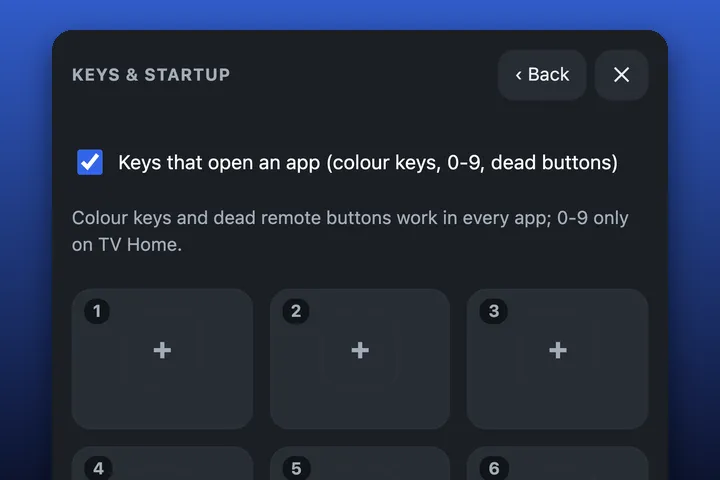
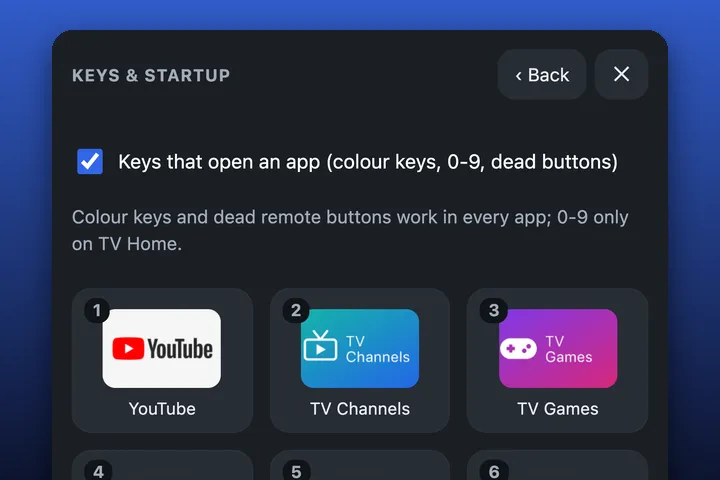
Intro site: keymap card shows apps on keys 1-3 (mocked in the page, nothing changed on the TV)
Claude-Session: https://claude.ai/code/session_01BipNE8eAGKYJpgQS8Nuwue

diff --git a/dev/shots/shots.py b/dev/shots/shots.py
@@ -304,13 +304,13 @@ FEATS = {
                  " await picPlace(cv.toDataURL('image/png'), 3000); await W(1500);", "$('#screenbox').closest('.card')", 0),
     "gamepad":  (480, "remote", "await W(500); const tt = () => { toast(T('gamepad.connected')); $('#toast').style.cssText = 'inset:auto auto auto 50%;top:270px'; }; tt(); setInterval(tt, 400); await W(300);",
                  "{ scrollIntoView() {}, getBoundingClientRect() { const a = document.querySelector('[role=tablist]').getBoundingClientRect(); return new DOMRect(a.x, a.y, a.width, 640); } }", 4),
-    "keymap":   (480, "tv", "await W(500); $('#homeopen').click(); await W(2500); [...document.querySelectorAll('dialog[open] button, dialog[open] summary, dialog[open] .item')].find((b) => /Phím|keys/i.test(b.innerText)).click(); await W(2000);",
+    "keymap":   (480, "tv", "await W(500); const real = api; api = async (u, b, q) => { const x = await real(u, b, q); if (x && x.config && /^\\/api\\/home/.test(u)) { x.config.keyon = true; x.config.keyapps = { 8: 'com.google.android.youtube.tv', 9: 'dev.tvremote.channels', 10: 'dev.tvremote.games', 183: 'com.google.android.youtube.tv' }; } return x; }; $('#homeopen').click(); await W(2500); [...document.querySelectorAll('dialog[open] button, dialog[open] summary, dialog[open] .item')].find((b) => /Phím|keys/i.test(b.innerText)).click(); await W(2000);",
                  DLG, 6),
     "hook":     (480, "", "$('#aboutbtn').click(); await W(1500); $('#hookpick [data-v=on]').click(); await W(1500); $('#hookgroup').style.cssText = 'padding:16px;background:var(--bg2);border-radius:14px'; await W(300);", "$('#hookgroup')", 5),
 }
 OPEN = """const ob = [...document.querySelectorAll('#tvlist button, #savedcard button')].find(b => /^\\s*(Mở|Connect|Open)\\s*$/.test(b.textContent)); if (ob) ob.click(); await W(8000);"""
 RENAME = """(() => { const N = %s, w = document.createTreeWalker(document.body, NodeFilter.SHOW_TEXT); let n;
-  while (n = w.nextNode()) n.nodeValue = n.nodeValue.replace(/sdk_google_atv64_amati_arm64/g, N).replace(/127\\.0\\.0\\.1/g, '192.168.1.50'); })()"""
+  while (n = w.nextNode()) n.nodeValue = n.nodeValue.replace(/sdk_google_atv64_amati_arm64/g, N).replace(/127\\.0\\.0\\.1/g, '192.168.1.50').replace(/YouTube Kids/g, 'YouTube'); })()"""
 
 
 def shot_feat(only=()):
